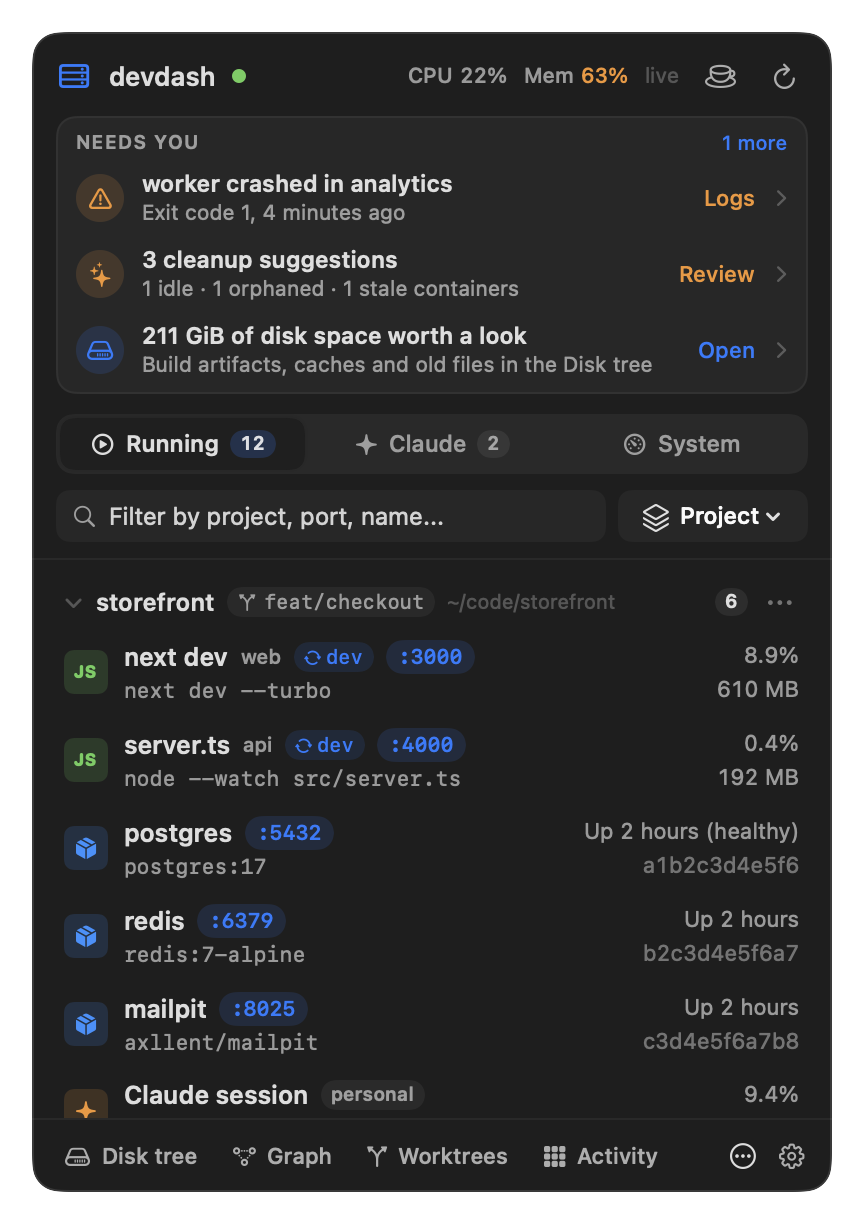
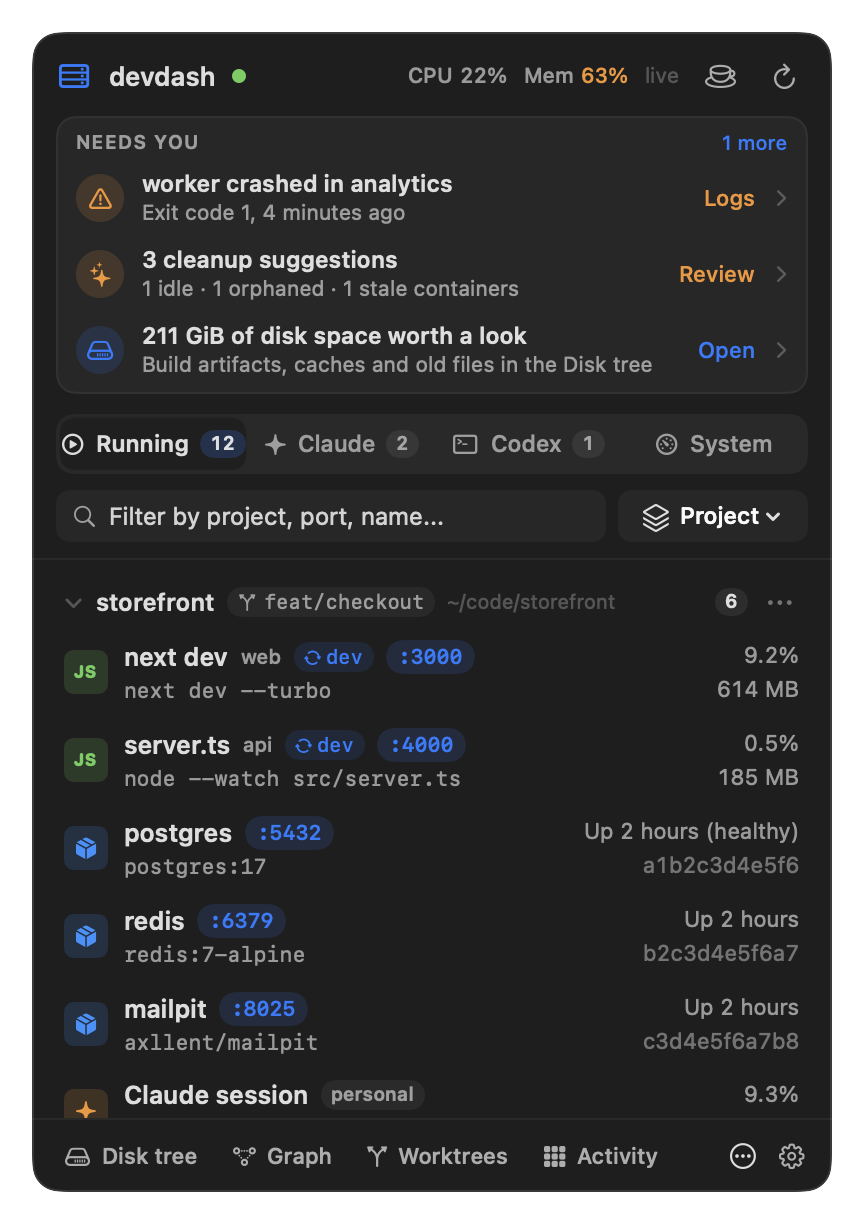
Document Codex support and add Codex screenshots

diff --git a/README.md b/README.md
@@ -4,7 +4,7 @@
 [![Release](https://img.shields.io/github/v/release/enso-works/devdash)](https://github.com/enso-works/devdash/releases)
 ![Platforms](https://img.shields.io/badge/platform-macOS%20%7C%20Linux-lightgrey)
 
-See and manage your dev servers, Docker containers and Claude Code sessions from one place. It comes as a terminal dashboard and a native macOS menu bar app.
+See and manage your dev servers, Docker containers, and Claude Code and Codex sessions from one place. It comes as a terminal dashboard and a native macOS menu bar app.
 
 ![DevDash menu bar app](screenshots/app/hero.png)
 
@@ -19,6 +19,7 @@ See and manage your dev servers, Docker containers and Claude Code sessions from
 - **Disk tree**: a treemap of your home folder that shows what takes up space and suggests what you can safely reclaim.
 - **Claude Code**: running sessions, projects and recent sessions. Resume any of them in a new Terminal window.
 - **Claude usage**: your plan limits (5-hour session and weekly) and what your usage would cost at API prices.
+- **Codex**: running sessions, projects and recent threads, your ChatGPT plan's Codex limits with reset times, and what the tokens would cost at OpenAI API prices. See [Codex usage and API-equivalent cost](#codex-usage-and-api-equivalent-cost).
 - **Separate Claude accounts**: work and personal Claude Code accounts on one Mac, picked by the folder you start in, with an account switcher in the menu bar and `gh` following the same folders. See [Separate Claude accounts](#separate-claude-accounts).
 - **Keep awake**: a mouse jiggler in the menu bar. Stops the Mac sleeping and keeps Teams and Slack from marking you away. See [Menu bar app](#menu-bar-app-macos).
 - **System**: CPU, memory, swap, disk, network and the heaviest processes.
@@ -66,7 +67,7 @@ Run it again to update. You can also run `devdash --update`, or use the prompt t
 open ~/Applications/DevDash.app
 ```
 
-The menu bar shows how many dev servers and containers are running, plus your current Claude session usage (for example `9 · 42%`). The icon switches to a flame when CPU or memory goes over your configured threshold, and to a cup while keep awake is on. Click it to open the dashboard.
+The menu bar shows how many dev servers and containers are running, plus your current Claude and Codex session usage (for example `9 · 42%`, or `9 · C 42% · X 71%` with both). The icon switches to a flame when CPU or memory goes over your configured threshold, and to a cup while keep awake is on. Click it to open the dashboard.
 
 | Running, by project | Project overview | System |
 |---|---|---|
@@ -75,11 +76,13 @@ The menu bar shows how many dev servers and containers are running, plus your cu
 | ![Claude](screenshots/app/claude.png) | ![Usage](screenshots/app/usage.png) | ![Cleanup](screenshots/app/cleanup.png) |
 | **Claude project** | **Process details** | **Dependency graph** |
 | ![Project](screenshots/app/project.png) | ![Details](screenshots/app/detail.png) | ![Graph](screenshots/app/graph.png) |
+| **Codex** | **Codex usage** | **Codex project** |
+| ![Codex](screenshots/app/codex.png) | ![Codex usage](screenshots/app/codex-usage.png) | ![Codex project](screenshots/app/codex-project.png) |
 
 What you can do:
 
-- **Needs you**: one list at the top for anything that wants your attention: cleanup suggestions, low disk space, disk space worth a look, and plan limits over 80%. Dismiss an item and it stays hidden until it changes. The list disappears when there is nothing to show.
-- **Running**: dev servers, Docker containers and Claude sessions, grouped by project (the git repository they run in). Each project header shows the branch and has a menu to open the project in your editor, Finder or Terminal, start a Claude session there, or stop everything in it. Services, servers outside any project and Node processes without a port are grouped at the bottom. Choose **Type** next to the filter to group by dev servers, Compose stacks, Claude sessions, services and background processes instead.
+- **Needs you**: one list at the top for anything that wants your attention: cleanup suggestions, low disk space, disk space worth a look, and Claude or Codex plan limits over 80%. Dismiss an item and it stays hidden until it changes. The list disappears when there is nothing to show.
+- **Running**: dev servers, Docker containers and Claude and Codex sessions, grouped by project (the git repository they run in). Each project header shows the branch and has a menu to open the project in your editor, Finder or Terminal, start a Claude or Codex session there, or stop everything in it. Services, servers outside any project and Node processes without a port are grouped at the bottom. Choose **Type** next to the filter to group by dev servers, Compose stacks, Claude sessions, Codex sessions, services and background processes instead.
   - Click a port chip to open `localhost:<port>` (https when the server speaks it), or Option-click to copy the URL. Hover a row to open it in your editor or kill it (click twice to confirm). Right-click any row for all its actions.
   - Click a server for process details: command, children, network connections, open files and environment. Click a container to stream its logs in a separate window, with filtering, follow mode and copy.
 - **Run dev servers**: **Run dev** and a **Run** submenu in every project's menu, and recent projects under **Ready to run**. See [Running dev servers](#running-dev-servers).
@@ -90,10 +93,14 @@ What you can do:
   - plan limits and API-equivalent cost;
   - running sessions, projects and recent sessions;
   - project pages with one-click launch: new session, continue, plan mode, resume picker, skip permissions, or a plain terminal in that folder.
+- **Codex**:
+  - plan limits and API-equivalent cost;
+  - Codex running in a terminal, projects and recent threads (from the CLI and the Codex app); click a thread to resume it in Terminal;
+  - project pages with new session, continue last, read-only and the resume picker.
 - **Cleanup**: listed under Needs you when devdash finds idle, orphaned or zombie processes, or containers running longer than your stale threshold. Pick which ones to remove and clean them up together.
 - **Footer**: Disk tree, dependency graph and activity heatmap. The `...` menu has JSON export, the terminal UI, What's new, Check for updates and Quit.
 - **Keep awake**: the cup in the header. While it's on, the Mac doesn't sleep, and after 50 seconds without input devdash moves the cursor one point and back, too fast to see, so Teams and Slack keep you active. Moving the cursor needs Accessibility access, which macOS asks for the first time you turn it on; without it only the sleep prevention works. It stays on across restarts. More in [Mouse jiggler for Mac](https://bavrk.com/articles/mouse-jiggler-for-mac).
-- **Keyboard**: Cmd+1 to Cmd+3 switch tabs, Cmd+F filters, Esc clears the filter.
+- **Keyboard**: Cmd+1 to Cmd+4 switch tabs, Cmd+F filters, Esc clears the filter.
 - **Notifications**: a macOS notification when a dev server starts or exits, a container stops, a watched port comes up, or a server devdash started crashes.
 - **Settings**: launch at login, editor (VS Code or Cursor), whether the menu bar shows the count and usage percentage, notifications, and a custom `devdash` path.
 
@@ -192,6 +199,21 @@ The Claude tab has a usage card, and tapping it opens a detail page.
   - Your subscription is billed separately; this number shows what the same work would cost on the API.
 
 Everything is computed locally. The only network request is the plan-limits lookup to `api.anthropic.com`.
+
+### Codex usage and API-equivalent cost
+
+The Codex tab has the same usage card and detail page.
+
+- **Plan limits**: the 5-hour and weekly Codex limits of your ChatGPT plan, the same ones Codex's `/status` shows, with reset times, your plan and any credits.
+  - They're read with the Codex login already on your machine (`~/.codex/auth.json`, or `$CODEX_HOME`).
+  - devdash never refreshes or stores that token. If it has expired, or you're offline, it shows the limits Codex last reported in your sessions instead, and says so.
+- **API-equivalent cost**: what the tokens in your local Codex sessions (`~/.codex/sessions` and `~/.codex/archived_sessions`) would cost at [OpenAI API list prices](https://developers.openai.com/api/docs/pricing).
+  - It accounts for per-model rates, cached input, cache writes, reasoning tokens (billed as output), Fast mode and long-context requests over 272K input tokens.
+  - Models without a public API price, such as `codex-auto-review`, are listed as unpriced instead of guessed.
+  - Archived sessions are zstd-compressed; devdash reads them with the `zstd` command (`brew install zstd`), and counts how many it skipped without it.
+  - Your ChatGPT plan is billed separately; this number shows what the same work would cost on the API.
+
+The only network request is the plan-limits lookup to `chatgpt.com`.
 
 ### Separate Claude accounts
 
@@ -333,6 +355,7 @@ The app needs Xcode 16+ (Swift 6) and macOS 14+. Useful tools:
 | Command | What it does |
 |---------|--------------|
 | `python -m devdash.claude_usage` | Print the usage payload (limits and costs) as JSON |
+| `python -m devdash.codex_usage` | Print the Codex usage payload as JSON |
 | `macos/.build/debug/DevDashBar --selftest` | Start the bridge and check every command decodes |
 | `macos/.build/release/DevDashBar --scan <path>` | Run the disk scanner and print totals, timing and cleanup suggestions |
 | `DEVDASH_DEMO=1 macos/.build/debug/DevDashBar --render <dir>` | Render every app screen to PNG using demo data |
@@ -378,6 +401,8 @@ devdash/
   processes.py     # process, Docker, system and Claude Code data collection
   claude_usage.py  # plan limits and API-equivalent cost from transcripts
   claude_profiles.py # Claude Code profiles from ~/.config/claude-profiles
+  codex.py         # running Codex sessions, and projects and threads from Codex's state database
+  codex_usage.py   # Codex plan limits and API-equivalent cost from session rollouts
   servers.py       # dev servers in any language and the project each belongs to
   network.py       # LAN address and the network URL of each server
   worktrees.py     # git worktrees across repositories, and removing them safely
